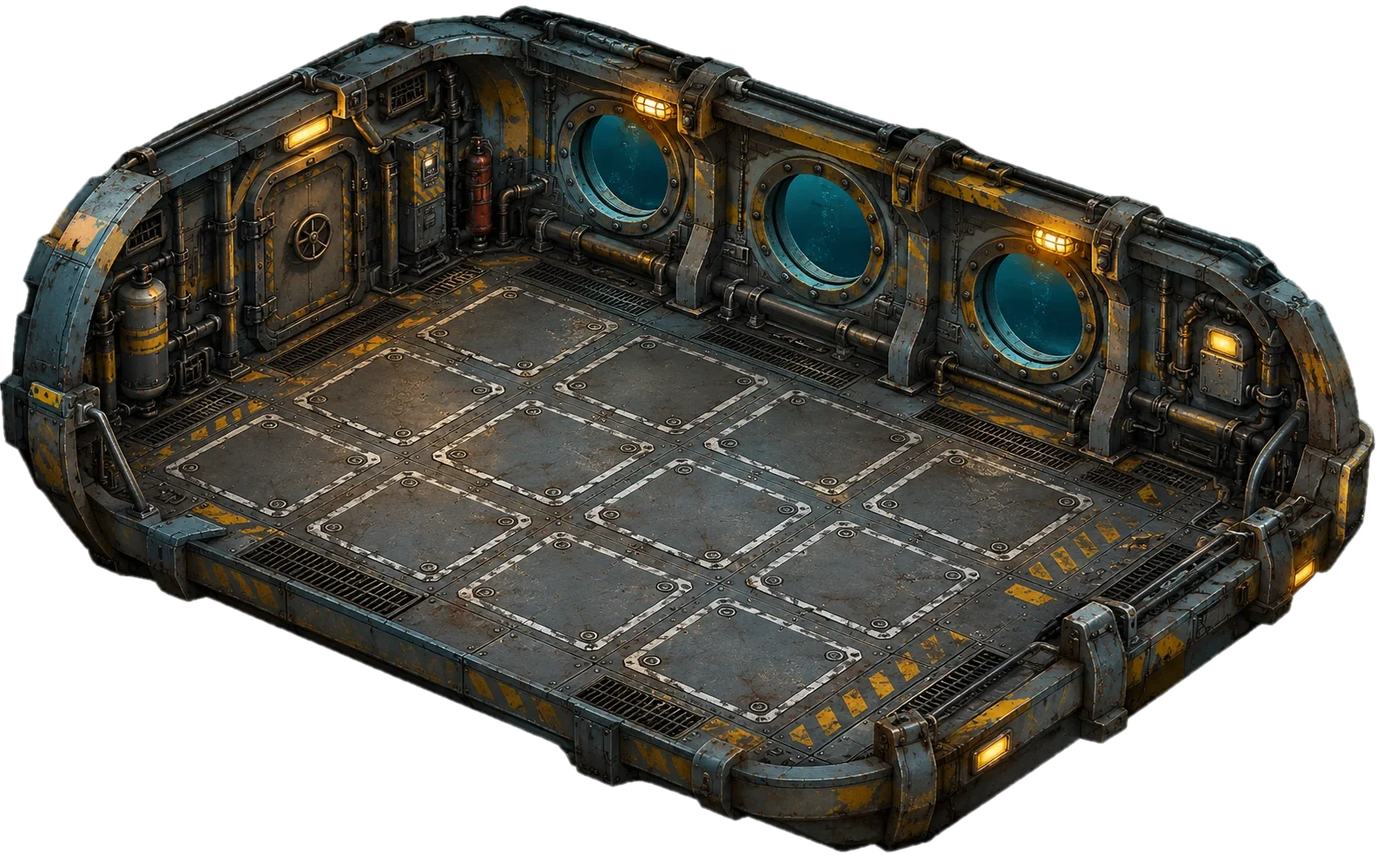
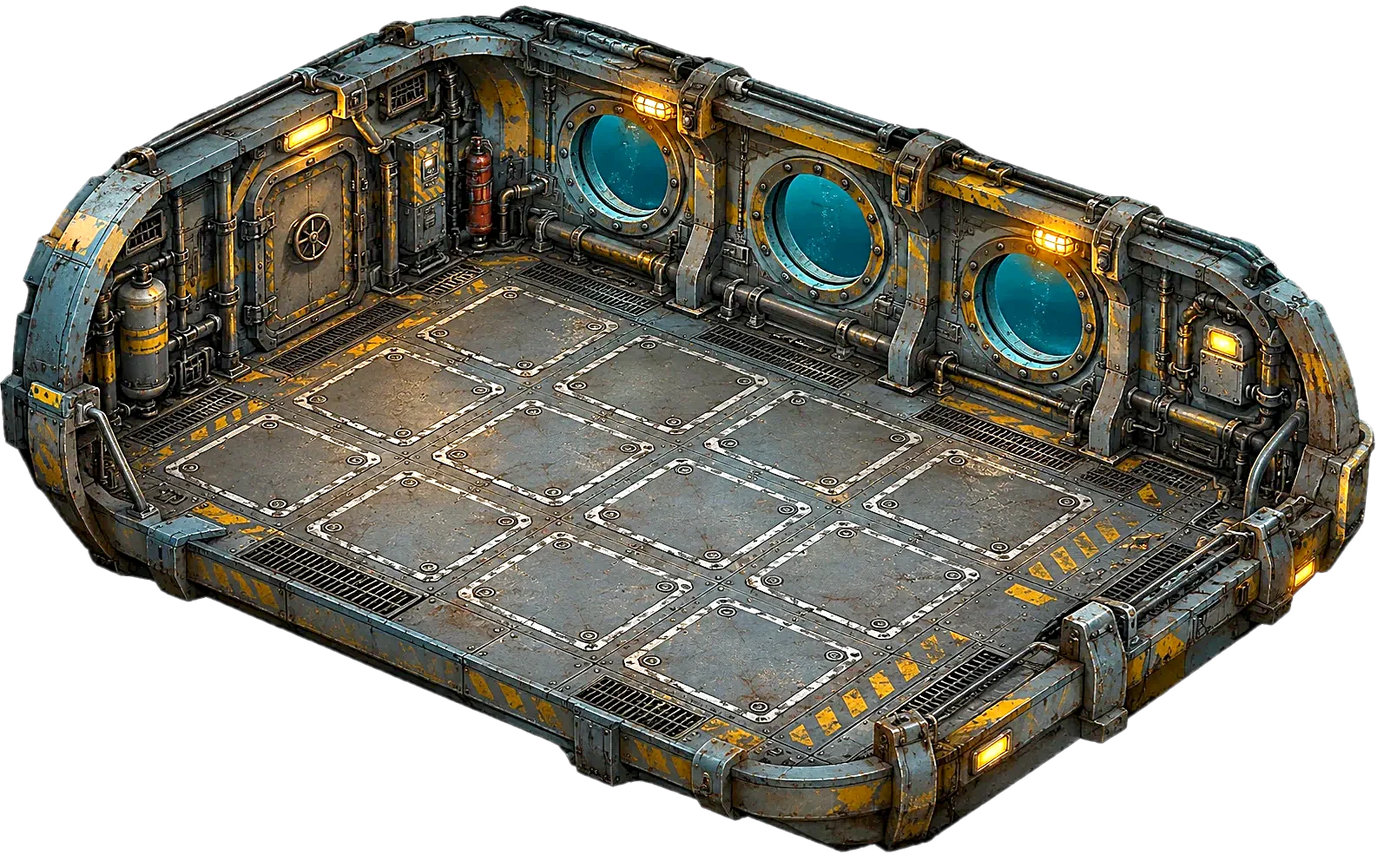
База: светло, работают все открытые герои, стройка — сначала здание, места подсвечены
Claude-Session: https://claude.ai/code/session_01FTFKVZCwjBK7sPbpwkE4X1

diff --git a/abyss/js/base/base-build.js b/abyss/js/base/base-build.js
@@ -17,11 +17,14 @@ AB.BaseBuild = (() => {
   let on = false, ghost = null, sel = null, drag = null, delAsk = false, chk = null, chkKey = '';
   // №153: упрощённая стройка — выбранное гнездо трюма
   let slotSel = null;
+  let bpSel = null;                                  // №197: сначала выбирают здание, потом место
+  const fitsSlot = (sl, b) => !sl.core && !sl.dev && ((b.w <= sl.w && b.h <= sl.h) || (b.h <= sl.w && b.w <= sl.h));
+  const freeFor = (b) => sim().slots().filter((q) => fitsSlot(q, b));
   const SIMPLE = () => !!(sim().simple && sim().simple());
 
   function toggle(v) {
     on = v == null ? !on : !!v;
-    ghost = null; sel = null; drag = null; delAsk = false; slotSel = null;
+    ghost = null; sel = null; drag = null; delAsk = false; slotSel = null; bpSel = null;
     if (on && AB.BaseView) AB.BaseView.close();
     render();
   }
@@ -149,6 +152,12 @@ AB.BaseBuild = (() => {
     if (SIMPLE()) {                                    // №153: нажали на гнездо — выбрать его
       const x = Math.floor(c.x), y = Math.floor(c.y);
       const sl = sim().slots().find((q) => x >= q.x && y >= q.y && x < q.x + q.w && y < q.y + q.h);
+      if (bpSel) {                                     // №197: здание выбрано — нажали на подсвеченное место
+        const b = sim().bp(bpSel);
+        if (sl && b && fitsSlot(sl, b)) { buildSel(sl.id); return true; }
+        if (!sl || !sl.dev) return true;               // мимо — выбор здания остаётся
+        bpSel = null;
+      }
       slotSel = sl ? sl.id : null; sel = null; delAsk = false;
       render(); return true;
     }
@@ -188,8 +197,18 @@ AB.BaseBuild = (() => {
   function drawFloor(ctx, toScreen, time, poly, rectPts) {
     const S = sim().state();
     if (SIMPLE()) {                                    // №153: гнёзда — свободные пунктиром с «+», выбранное — жёлтым
+      const bs = bpSel && sim().bp(bpSel);
       for (const sl of sim().slots()) {
         if (sl.core) continue;
+        if (bs) {                                      // №197: куда можно поставить выбранное здание — зелёным, пульсом
+          poly(ctx, toScreen, rectPts(sl));
+          if (fitsSlot(sl, bs)) {
+            const a = 0.22 + Math.sin(time * 4) * 0.1;
+            ctx.fillStyle = `rgba(120,255,170,${a})`; ctx.fill(); ctx.strokeStyle = 'rgba(120,255,170,.95)'; ctx.lineWidth = 2.5; ctx.stroke();
+            const c = toScreen(sl.x + sl.w / 2, sl.y + sl.h / 2); ctx.fillStyle = '#d8ffe6'; ctx.font = '700 20px "Oswald", sans-serif'; ctx.textAlign = 'center'; ctx.fillText('▼', c.x, c.y + 7);
+          } else { ctx.strokeStyle = 'rgba(255,255,255,.12)'; ctx.lineWidth = 1; ctx.stroke(); }
+          continue;
+        }
         const me = sl.id === slotSel;
         poly(ctx, toScreen, rectPts(sl));
         if (!sl.dev) { ctx.fillStyle = me ? 'rgba(255,226,140,.22)' : `rgba(94,230,255,${0.08 + Math.sin(time * 3) * 0.03})`; ctx.fill(); ctx.setLineDash([5, 4]); }
@@ -279,8 +298,21 @@ AB.BaseBuild = (() => {
     if (!on) return;
     const sl = slotSel && sim().slots().find((q) => q.id === slotSel);
     const free = sim().slots().filter((q) => !q.dev).length;
-    if (!sl) {
-      cat.innerHTML = `<div class="bx-cat-head"><b>Стройка</b><span class="muted">Нажмите на свободное место «+» в трюме. Свободно: ${free} из ${sim().slots().length}. Кабели не нужны — питание общее от реактора.</span><button class="bx-chip" data-b="exit">✕ Закрыть</button></div>`;
+    cat.classList.toggle('bx-mini', !!bpSel && !sl);
+    if (bpSel && !sl) {                                // №197: здание выбрано — показываем, куда можно
+      const b = sim().bp(bpSel), n = b ? freeFor(b).length : 0;
+      cat.innerHTML = `<div class="bx-cat-head"><b>${esc(b ? b.name : '')}</b><span class="muted">${n ? `Подходящие места подсвечены зелёным (${n}). Нажмите на любое — или «Авто».` : 'Свободных мест нет — разберите что-нибудь ненужное.'}</span><button class="bx-chip" data-b="bpback">◀ Назад</button></div>
+        <div class="bx-row">${n ? '<button class="bx-chip go" data-b="bpauto">✓ Авто — на первое свободное</button>' : ''}<button class="bx-chip" data-b="exit">✕ Закрыть</button></div>
+        <div class="bx-cost">Цена: ${(b.cost || []).length ? costLine(b.cost) : 'бесплатно'}</div>`;
+      return;
+    }
+    if (!sl) {                                         // №197: стройка начинается со списка зданий
+      const list = sim().slotBps().map((b) => {
+        const cost = (b.cost || []), lack = cost.some(([i, n]) => AB.BaseView.stock(i) < n), n = freeFor(b).length;
+        return `<button class="bx-bp ${lack || !n ? 'lack' : ''}" data-b="pick|${b.id}"><b>${esc(b.name)}</b><span>${b.w}×${b.h} · ${cost.length ? costLine(cost) : 'бесплатно'}</span><span class="muted">${n ? `мест: ${n}` : 'нет места'}${b.desc ? ` · ${esc((String(b.desc).match(/^.*?[.!?](\s|$)/) || [b.desc])[0].trim())}` : ''}</span></button>`;
+      }).join('');
+      cat.innerHTML = `<div class="bx-cat-head"><b>Стройка</b><span class="muted">Выберите здание — игра подсветит, куда его можно поставить. Свободно мест: ${free} из ${sim().slots().length}. Нажмите на постройку в трюме, чтобы открыть или разобрать.</span><button class="bx-chip" data-b="exit">✕ Закрыть</button></div>
+        <div class="bx-cat-list">${list || '<span class="muted">Нет изученных устройств</span>'}</div><div class="muted">Новые устройства — в «Науке».</div>`;
       return;
     }
     if (sl.dev) {
@@ -297,6 +329,12 @@ AB.BaseBuild = (() => {
     }).join('');
     cat.innerHTML = `<div class="bx-cat-head"><b>Место ${esc(sl.id.slice(1))}: что поставить?</b><span class="muted">Устройство появится сразу, материалы спишутся со стеллажей и из шкафчиков.</span><button class="bx-chip" data-b="sback">◀ Назад</button></div>
       <div class="bx-cat-list">${list}</div><div class="muted">Новые устройства — в «Науке».</div>`;
+  }
+  // №197: построить выбранное здание в гнездо
+  function buildSel(slotId) {
+    const b = sim().bp(bpSel), r = sim().buildAt(slotId, bpSel);
+    if (!r.ok) { say(r.miss ? missText(b, r.miss) : `${b.name}: ${r.why}`); render(); return; }
+    AB.Bus.emit('iso:toast', { text: `${b.name}: готово`, kind: 'good' }); bpSel = null; slotSel = null; sim().save(); render();
   }
   const floating = () => !!ghost && sim().bp(ghost.bp).kind === 'device';
   // ставит ✓ / ✕ над призраком: верхний угол призрака на экране → координаты страницы
@@ -316,6 +354,9 @@ AB.BaseBuild = (() => {
     const btn = e.target.closest('[data-b]'); if (!btn || btn.disabled) return;
     const [a, v] = btn.dataset.b.split('|');
     if (a === 'exit') toggle(false);
+    else if (a === 'pick') { bpSel = v; slotSel = null; render(); }
+    else if (a === 'bpback') { bpSel = null; render(); }
+    else if (a === 'bpauto') { const b = sim().bp(bpSel), f = b && freeFor(b)[0]; if (f) buildSel(f.id); }
     else if (a === 'build') {                          // №153: поставить в выбранное гнездо
       const b = sim().bp(v), r = sim().buildAt(slotSel, v);
       if (!r.ok) { say(r.miss ? missText(b, r.miss) : `${b.name}: ${r.why}`); return; }
@@ -344,5 +385,5 @@ AB.BaseBuild = (() => {
   AB.Bus.on('base:view', ({ on: v }) => { if (!v && on) toggle(false); });
   AB.Bus.on('base:plan', () => { if (on) render(); });
 
-  return { auto, toggle, on: () => on, tap, grab, dragTo, drop, drawFloor, startNew, startEdit, confirm, ghost: () => ghost, render };
+  return { auto, toggle, on: () => on, tap, grab, dragTo, drop, drawFloor, startNew, startEdit, confirm, ghost: () => ghost, render, pick: (id) => { bpSel = id; slotSel = null; render(); }, picked: () => bpSel };
 })();

diff --git a/abyss/js/iso/iso-render.js b/abyss/js/iso/iso-render.js
@@ -975,7 +975,30 @@ AB.IsoRender = (() => {
     }
     // №56: снаружи — не герой, а экзокостюм (11 частей, js/data/rigs/EXOSUIT.js)
     if (AB.IsoSuit && AB.IsoSuit.suited(m)) { AB.IsoSuit.draw(ctx, AB.IsoSuit.poseOf(m), p.x, p.y, FIG_K); return; }
+    const H = AB.HEROES && AB.HEROES[m.id];
+    if (H && H.look) { lookFigure(m, H, p); return; }   // №197: открытый герой без своей картинки — простая фигура в его цветах
     if (AB.Render && AB.Render.drawFigure) AB.Render.drawFigure(ctx, m, p.x, p.y, FIG_K);
+  }
+  // №197: фигура героя по «look» (цвет одежды и волос) — пока у героя нет своей картинки
+  function lookFigure(m, H, p) {
+    const k = FIG_K * 1.25, sw = m.moving ? Math.sin((m.stride || 0) * 0.18) : 0, bob = m.moving ? Math.abs(sw) * 1.5 : 0;
+    const role = (AB.HERO_ROLES && AB.HERO_ROLES[H.role]) || {}, f = m.facing || 1;
+    ctx.save(); ctx.translate(p.x, p.y); ctx.scale(k * f, k);
+    ctx.fillStyle = 'rgba(0,0,0,.28)'; ctx.beginPath(); ctx.ellipse(0, 0, 14, 5, 0, 0, 7); ctx.fill();
+    ctx.translate(0, -bob);
+    ctx.lineCap = 'round';
+    ctx.strokeStyle = '#2a2e33'; ctx.lineWidth = 6;                         // ноги
+    ctx.beginPath(); ctx.moveTo(-3, -34); ctx.lineTo(-3 + sw * 6, -2); ctx.moveTo(3, -34); ctx.lineTo(3 - sw * 6, -2); ctx.stroke();
+    ctx.fillStyle = H.look.body;                                           // туловище
+    ctx.beginPath(); ctx.moveTo(-9, -62); ctx.lineTo(9, -62); ctx.lineTo(8, -32); ctx.lineTo(-8, -32); ctx.closePath(); ctx.fill();
+    ctx.strokeStyle = 'rgba(0,0,0,.35)'; ctx.lineWidth = 1; ctx.stroke();
+    ctx.fillStyle = role.col || '#ccc'; ctx.fillRect(-8, -40, 16, 3);       // пояс — цвет роли
+    ctx.strokeStyle = H.look.body; ctx.lineWidth = 5;                      // руки
+    ctx.beginPath(); ctx.moveTo(-8, -58); ctx.lineTo(-10 - sw * 5, -38); ctx.moveTo(8, -58); ctx.lineTo(10 + sw * 5, -38); ctx.stroke();
+    ctx.fillStyle = '#d8b090'; ctx.beginPath(); ctx.arc(1, -70, 7, 0, 7); ctx.fill();   // голова
+    ctx.fillStyle = H.look.hair; ctx.beginPath(); ctx.arc(0, -72, 7.5, Math.PI * 0.95, Math.PI * 2.05); ctx.fill();
+    ctx.fillStyle = '#1a1a1a'; ctx.fillRect(4, -71, 2, 2);
+    ctx.restore();
   }
 
   function nameTag(m, isLead) {
@@ -1005,7 +1028,9 @@ AB.IsoRender = (() => {
     L.globalCompositeOperation = 'source-over';
     // №133: до питания — гуще темнота (атмосфера), вокруг отряда — небольшое пятно; с питанием — как было
     const powered = AB.World && AB.World.hasPower();
-    const dk = AB.IsoReward ? AB.IsoReward.darkness({ dark: 0.9, lit: 0.3 }, powered) : (powered ? 0.3 : 0.9);
+    let dk = AB.IsoReward ? AB.IsoReward.darkness({ dark: 0.9, lit: 0.3 }, powered) : (powered ? 0.3 : 0.9);
+    if (AB.IsoGame.sector() === 'SECTOR-005') dk = 0;   // №197: своя база — светло, всё видно
+    if (dk <= 0) L.clearRect(0, 0, lightCv.width, lightCv.height);   // №197: в базе слой темноты пустой (иначе оставался прежний)
     L.fillStyle = `rgba(3,4,7,${Math.max(0, dk)})`;   // с питанием светлее (№82: плавно, со вспышкой)
     L.fillRect(0, 0, lightCv.width, lightCv.height);
     L.setTransform(sc * k, 0, 0, sc * k, (cv.width / 2 - cam.x * sc) * k, (cv.height / 2 - cam.y * sc) * k);

diff --git a/abyss/js/base/base-view.js b/abyss/js/base/base-view.js
@@ -18,13 +18,17 @@ AB.BaseView = (() => {
   const toast = (text, kind = 'info') => AB.Bus.emit('iso:toast', { text, kind });
 
   // ---------- адаптер: шкафчики и кто дома ----------
+  // №197: работать на базе может любой открытый герой, а не только экипаж капсулы (Марк и Хейл)
+  const allCrew = () => (AB.IsoRoster && AB.IsoRoster.crew ? AB.IsoRoster.crew() : AB.IsoActs.crew());
   function present() {
     if (!AB.Flags.has('undocked')) return [];
     const sq = AB.IsoOverworld.squads ? AB.IsoOverworld.squads() : [];
+    const sf = AB.IsoSurface && AB.IsoSurface._squads ? AB.IsoSurface._squads() : [];
     const here = AB.IsoGame.sector() === SEC || AB.IsoOverworld.isOpen();
-    return AB.IsoActs.crew().filter((id) => {
+    return allCrew().filter((id) => {
       const s = sq.find((q) => q.id === id);
       if (s && s.vehicle && s.state !== 'home') return false;                    // отряд на карте дна
+      if (sf.some((q) => q.id === id && q.state !== 'home')) return false;     // №197: ушёл на поверхность
       if (!here && AB.IsoParty.members().some((m) => m.id === id)) return false;  // ушёл с отрядом в здание
       const c = AB.Chars.get(id); return !(c && c.dead);
     });
@@ -354,7 +358,7 @@ AB.BaseView = (() => {
   function shortDesc(b) { const t = String(b.short || b.desc || ''); const m = t.match(/^.*?[.!?](\s|$)/); return (m ? m[0] : t).trim(); }
   // №156: шкала «Работник» — портреты назначенных (нажатие снимает) и «+»; «+» открывает ряд иконок героев
   function workerBar(o) {
-    const ws = sim().workers(o.uid), crew = AB.IsoActs.crew(), free = crew.filter((id) => !ws.includes(id));
+    const ws = sim().workers(o.uid), crew = present(), free = crew.filter((id) => !ws.includes(id));
     const ico = (id, act, extra = '') => `<button class="bx-hero ${extra}" data-act="${act}|${id}" title="${esc(crewName(id))}"><canvas data-pt="${id}"></canvas><span>${esc(crewName(id))}</span></button>`;
     const picking = card && card.pick === o.uid;
     return `<div class="bx-work"><span class="bx-work-l">Работник</span>
@@ -438,7 +442,7 @@ AB.BaseView = (() => {
   const JOB_NAME = { build: 'Стройка', haul: 'Переноска' };
   const jobName = (j) => JOB_NAME[j] || title(sim().dev(j)) || j;
   function crewCard() {
-    const S = sim().state(), ids = AB.IsoActs.crew();
+    const S = sim().state(), ids = allCrew();
     const rows = ids.map((id) => {
       const w = sim().worker(id), here = S.present.includes(id);
       const task = !here ? 'не на базе' : w.task ? w.task.label : 'свободен';

diff --git a/abyss/js/iso/iso-base.js b/abyss/js/iso/iso-base.js
@@ -36,9 +36,14 @@ AB.IsoBase = (() => {
     if (!on) start();
     if (AB.BaseView) AB.BaseView.frame(dt);
     const sim = AB.BaseSim, S = sim.on() ? sim.state() : null;
+    // №197: открытые герои, которые на базе, — тоже фигурами в трюме (появляются у входа)
+    if (S && AB.IsoParty.addNpc) {
+      const have = new Set(crew().map((m) => m.id)), en = AB.BASE_DATA.core ? AB.BASE_DATA.core.enter : null;
+      for (const id of S.present) if (!have.has(id) && AB.HEROES && AB.HEROES[id]) AB.IsoParty.addNpc(id, en ? en.x : 3.5, en ? en.y : 5.5);
+    }
     for (const m of crew()) {
       const w = S && S.crew[m.id];
-      if (!w || w.away || !S.present.includes(m.id)) { if (S && AB.IsoActs.crew().includes(m.id)) m.hidden = true; continue; }
+      if (!w || w.away || !S.present.includes(m.id)) { if (S && (AB.IsoActs.crew().includes(m.id) || (AB.HEROES && AB.HEROES[m.id]))) m.hidden = true; continue; }
       m.hidden = false; m.ext = true;
       const dx = w.x - (m.sx ?? m.x), dy = w.y - (m.sy ?? m.y), went = Math.hypot(dx, dy);
       m.sx = w.x; m.sy = w.y;

diff --git a/abyss/css/iso.css b/abyss/css/iso.css
@@ -1078,3 +1078,8 @@ body.map-fan-on .map-units { visibility: hidden; }
 .un-vtabs button { width: 42px; height: 42px; border-radius: 8px; cursor: pointer; font-size: 19px; color: #9fb4bc; background: #0e1519; border: 1px solid rgba(94, 230, 255, .25); }
 .un-vtabs button.on { color: #ffe2a8; border-color: #ffd27a; box-shadow: 0 0 8px rgba(255, 210, 120, .35); }
 @media (max-width: 560px) { .un-vpage { grid-template-columns: 1fr 44px; } .un-vfig { grid-column: 1 / -1; } }
+
+/* №197: выбрано здание — панель стройки узкой полосой сверху, чтобы подсвеченные места были видны */
+#bx-cat.bx-mini { top: calc(150px + env(safe-area-inset-top, 0px)); bottom: auto; max-height: none; gap: 5px; padding: 8px 12px; background: rgba(6, 10, 12, .82); }
+#bx-cat.bx-mini .bx-cost { font-size: 11px; }
+@media (max-height: 460px) { #bx-cat.bx-mini { top: calc(4px + env(safe-area-inset-top, 0px)); } }

diff --git a/abyss/docs/GDD-CHANGES.md b/abyss/docs/GDD-CHANGES.md
@@ -201,6 +201,7 @@ GDD v0.1 остаётся основным документом. Здесь — 
 | 194 | 2026-11-24 | **Трюм капсулы — картинка автора** (по промту «внутренний дизайн базы»). `assets/base/hold.webp`: нарисованная «шахматка» убрана, картинка отражена по горизонтали (чтобы длинная стена с иллюминаторами шла как ось трюма в игре). Трюм перестроен под картинку: ядро 13 × 10 клеток (было 26 × 8), 12 мест стройки сеткой 4 × 3 — ровно на нарисованных площадках; приёмник шлюза и выход — у нарисованной двери (левая торцевая стена), реактор — у дальней торцевой стены, шкафчики и стойка экзокостюма — у стены с иллюминаторами; свет и точки отдыха — по новому трюму. `base-view.js` `holdArt`: картинка вписывается в изометрию по трём центрам площадок (аффинное преобразование); `iso-render.js`: в капсуле рисуется она вместо пола, стен и проёма выхода. Старые сохранения переносятся сами: ядро, приёмник и реактор — на новые места, устройства — с прежних мест на места с теми же номерами (прежняя раскладка — `simple.slotsOld`, устарела). Камера в капсуле — по центру нового трюма. Устройства пока рисует код — до картинок автора по промтам. | `js/data/base.js`, `iso-layouts.js`, `base-sim.js`, `base-view.js`, `iso-render.js`, `iso-base.js`, `assets/base/hold.webp` |
 | 195 | 2026-11-24 | **Страница техники — вкладки-иконки** (решение автора: «Юниты → Транспорт → техника: справа вкладки без надписей, только иконки: «Подробнее» — характеристики и навыки, «Усиления», «Введение» — полное название, редкость, источник питания (электромагнитный, термальный или ядерный) и «Информация» — описание; для всей техники»). `iso-roster.js`: справа колонка иконок ☰ «Подробнее» (скорость, удар, дальность, броня с деталями «было → стало», типы урона и защиты, оружие, способность, кто ведёт, «В окно «Отряд»»), ⚙ «Усиления» (4 слота деталей — поставить/снять, итог), ℹ «Введение» (полное название, редкость цветом, источник питания, класс; «Информация» — подробное описание). Название вкладки — подсказкой при наведении. Данные — `AB.VEHICLE_INFO`, `AB.VEHICLE_RARITY`, `AB.VEHICLE_POWER` в `heroes.js` (черновик для всех 8 машин — ждёт автора). | `iso-roster.js`, `heroes.js`, `css/iso.css` |
 | 196 | 2026-11-24 | **Ответный огонь — исправлено** (замечание автора: «меня атакуют, но мои юниты не бьют в ответ»). Причины: удар, целиком погашенный щитом (купол Хейл, чип щита), не запоминал нападавшего — ответа не было; ответ включался, только если враг не дальше 3 клеток (Страж Архива бьёт с 4 — ему не отвечали); стоящий герой не в автобое отвечал не сразу. Теперь нападавший запоминается при любом попадании, герой, который стоит (в любом режиме) или в автобое, сразу берёт его целью; дистанция ответа — не меньше дальности нападавшего + 1. Идущие по «Идти»/«Следовать» по-прежнему не ввязываются в бой (дойдя — отвечают). | `iso-surface.js` |
+| 197 | 2026-11-24 | **База: светло, все герои, простая стройка** (решение автора: «внутри базы должно быть светло и всё видно; работать с техникой — любым героем, а не только Марком и девушкой; стройку упростить: нажал «Стройка» — выбрал здание — игра сама показывает, куда можно поставить»). Свет: в трюме (SECTOR-005) нет слоя темноты — видно всё помещение (раньше слой не очищался и края трюма уходили в черноту). Картинка трюма обработана: подняты тени, яркость, контраст и насыщенность, добавлена резкость. Экипаж базы — все открытые герои (Марк, Хейл и герои из заданий), кроме ушедших с отрядом на дно или поверхность: они появляются в трюме у входа, их можно назначать работниками устройств и давать им работы в «Экипаже»; пока у героя нет своей картинки — простая фигура в его цветах. Стройка: сначала список зданий (цена, сколько мест подходит), выбрал — подходящие свободные места подсвечены зелёным с ▼; нажать на любое или «Авто — на первое свободное»; занятое место по нажатию — открыть или разобрать, как прежде. | `iso-render.js`, `base-view.js`, `iso-base.js`, `base-build.js`, `iso.css`, `assets/base/hold.webp` |
 
 ## Открытые вопросы
 
